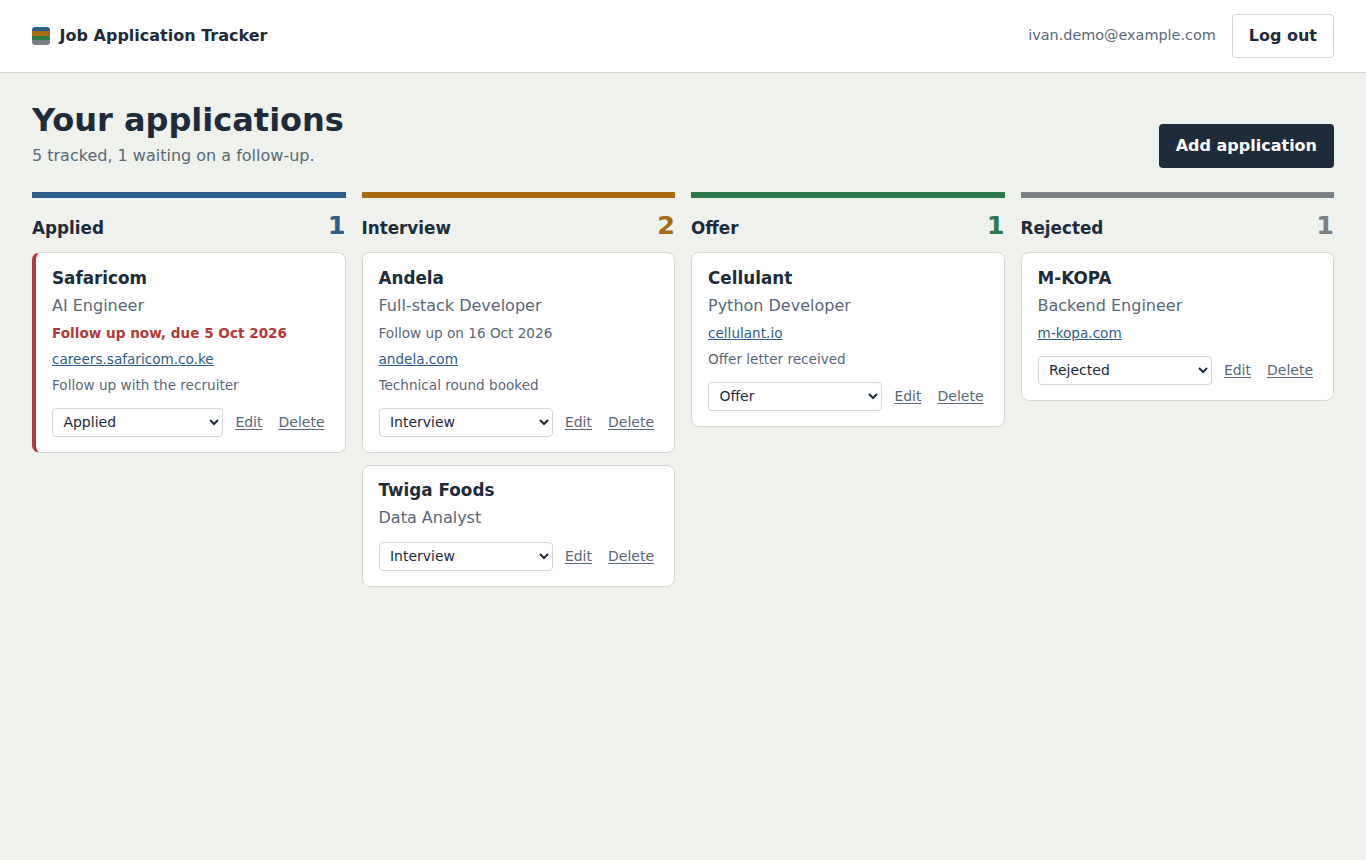
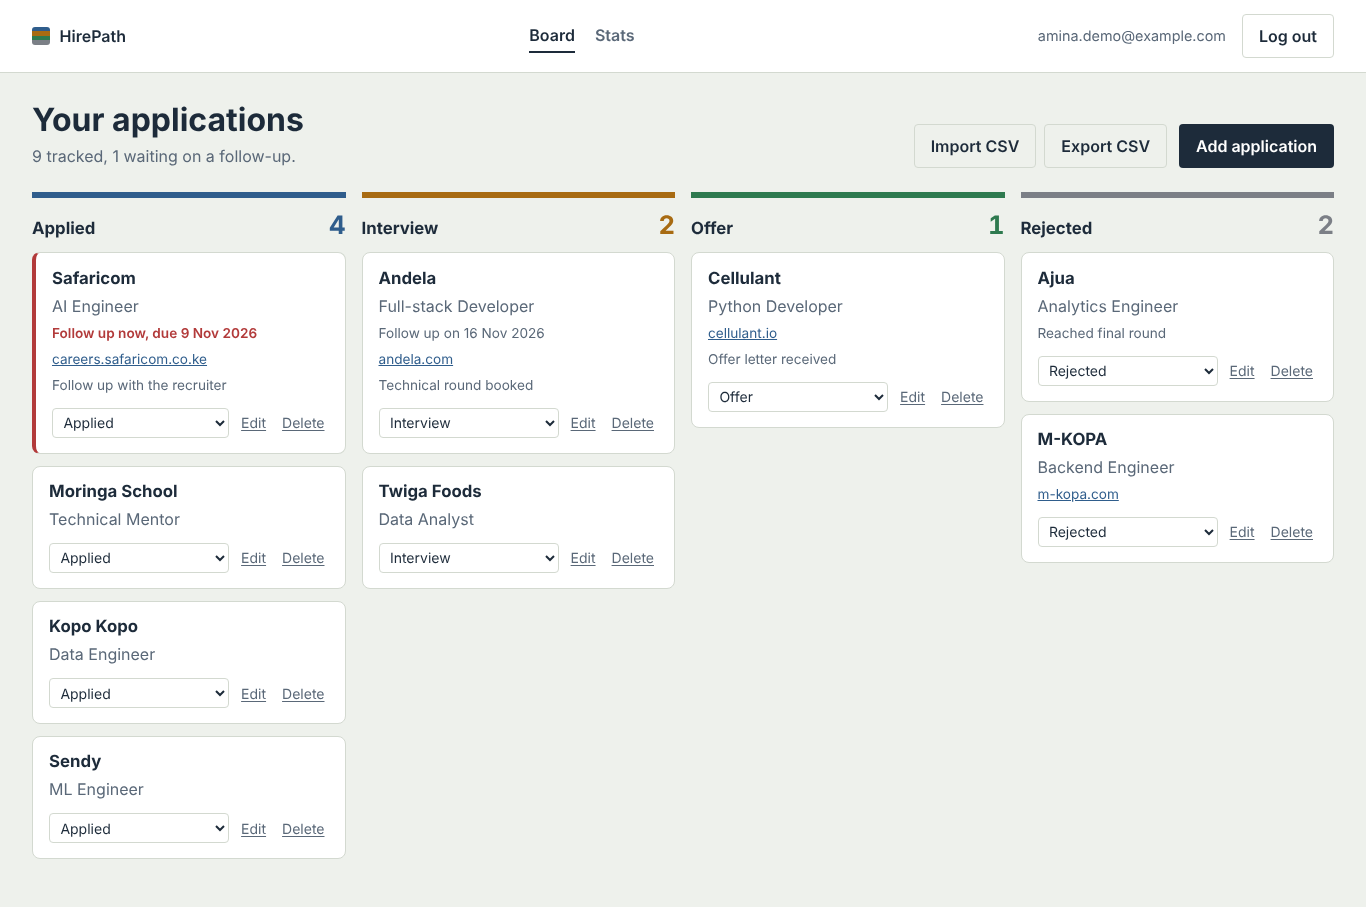
Update README and screenshots for HirePath

diff --git a/README.md b/README.md
@@ -1,9 +1,8 @@
-# Job Application Tracker
+# HirePath
 
-Keep every job application in one place. Add the company, role, link, status and a follow-up date, then see everything on a board grouped by status. Each user only ever sees their own applications.
+![CI](https://github.com/quantamsage/hirepath/actions/workflows/ci.yml/badge.svg)
 
-
-> The API runs on Render's free tier, so the first request after a quiet period can take up to a minute.
+Keep every job application in one place. Add the company, role, link, status and a follow-up date, see everything on a board grouped by status, and track how your search is going on a stats page. Bring in an existing spreadsheet with CSV import, or take everything out with CSV export. Each user only ever sees their own applications.
 
 ![Board](docs/screenshots/board.png)
 
@@ -13,13 +12,19 @@ Keep every job application in one place. Add the company, role, link, status and
 - Add, edit and delete applications: company, role, job link, status, follow-up date, notes
 - Board with four columns: Applied, Interview, Offer, Rejected
 - Change status straight from a card
+- **Stats page:** response rate, interview rate and offer rate, a funnel (Applied → Heard back → Interviewed → Offers), applications per week for the last 12 weeks, and where everything stands now. Rates use each application's **status history**, so one that reached an interview and was later rejected still counts as interviewed.
+- **CSV import:** upload your existing spreadsheet. Headers are matched loosely ("Job Title", "Date Applied", "Link" all work); only company and role are required. Import is **all or nothing**: if any row is invalid, nothing is saved and every problem is listed by spreadsheet row number.
+- **CSV export:** download everything as a CSV. Cells that start with `=`, `+`, `-` or `@` are prefixed with `'` so Excel and Google Sheets don't run them as formulas.
+- Record the date you applied (defaults to today), so imported history lands in the right week
 - Follow-ups that are due (today or overdue, and still Applied or Interview) are highlighted. The backend decides this, not the browser.
 - Friendly error messages everywhere, including field-level validation errors from the API
 - Works on mobile
 
 ## Screenshots
 
-| Edit dialog | Session expired | Mobile |
+![Stats](docs/screenshots/stats.png)
+
+| Edit dialog | Log in | Mobile |
 |---|---|---|
 | ![Edit dialog](docs/screenshots/edit-dialog.png) | ![Login](docs/screenshots/login.png) | ![Mobile](docs/screenshots/mobile.png) |
 
@@ -27,17 +32,16 @@ Keep every job application in one place. Add the company, role, link, status and
 
 - **Backend:** Python 3.12, FastAPI, Pydantic v2, psycopg 3 (connection pool), PyJWT, Argon2 (argon2-cffi)
 - **Frontend:** Next.js 15 (App Router), TypeScript, plain CSS
-- **Database:** PostgreSQL on Supabase (Session pooler)
-- **Hosting:** Render (backend, Frankfurt), Vercel (frontend)
+- **Database:** PostgreSQL 16 (works with any PostgreSQL 13+, including Supabase)
 - **Testing:** pytest against a real Postgres database; GitHub Actions CI
 
 ## Architecture
 
 ```mermaid
 flowchart LR
-    U[Browser] -->|HTTPS| FE[Next.js frontend<br/>Vercel]
-    FE -->|HTTPS + JSON<br/>Authorization: Bearer JWT| BE[FastAPI backend<br/>Render, Frankfurt]
-    BE -->|SQL, parameterised<br/>as jobtracker_app role| DB[(PostgreSQL<br/>Supabase Session pooler)]
+    U[Browser] -->|HTTPS| FE[Next.js frontend]
+    FE -->|HTTPS + JSON<br/>Authorization: Bearer JWT| BE[FastAPI backend]
+    BE -->|SQL, parameterised<br/>as jobtracker_app role| DB[(PostgreSQL<br/>jobtracker_* tables)]
     C[docs/openapi.yaml<br/>API contract] -. contract test .-> BE
 ```
 
@@ -53,7 +57,7 @@ The frontend never touches the database. It only calls the backend, and the back
 | Schema design | `db/schema.sql`: foreign key with `ON DELETE CASCADE`, `NOT NULL`, `UNIQUE` email, `CHECK` constraints on status, URL, lengths and lowercase email. Each index has a comment explaining it. |
 | Validation at the boundary | `backend/app/schemas.py`: every body, path and query parameter is a Pydantic model or typed parameter (`extra="forbid"`, length limits, URL scheme check). All SQL is in `backend/app/repository.py` and uses `%s` parameters. |
 | Stateless auth | `backend/app/security.py`: Argon2id password hashes, HS256 JWT with a 30-minute expiry, algorithm pinned on decode. See the token storage trade-off below. |
-| Least privilege | The app connects as `jobtracker_app`: `SELECT, INSERT` on users, CRUD on applications, nothing else. It can't create, alter, drop or truncate (tested in `test_db_privileges.py`). Every application query includes `user_id = <id from token>`. Secrets live only in Render's env vars. |
+| Least privilege | The app connects as `jobtracker_app`: `SELECT, INSERT` on users, CRUD on applications, `SELECT, INSERT` on the status history (it can't rewrite history), nothing else. It can't create, alter, drop or truncate (tested in `test_db_privileges.py`). Every application query includes `user_id = <id from token>`. Secrets live only in environment variables. |
 | Graceful errors | `backend/app/errors.py`: one format, `{"error": {"code", "message", "details?"}}`. Unexpected errors are logged with a stack trace on the server and returned as a generic 500. |
 | CORS and headers | `CORS_ORIGINS` env var, `*` rejected at startup. Backend sets `nosniff`, `X-Frame-Options: DENY`, a `frame-ancestors 'none'` CSP, `Referrer-Policy`, `Cache-Control: no-store`, and HSTS in production. The frontend sets a CSP in `next.config.ts`. |
 
@@ -61,14 +65,14 @@ The frontend never touches the database. It only calls the backend, and the back
 
 The access token is kept in `sessionStorage` and sent in the `Authorization` header.
 
-- **Why:** the frontend (Vercel) and backend (Render) are on different domains. Cookies across sites need `SameSite=None` and CSRF protection. A header-based token avoids CSRF completely, since browsers never attach it automatically.
+- **Why:** the frontend and backend run on different origins (ports locally, domains if deployed). Cookies across sites need `SameSite=None` and CSRF protection. A header-based token avoids CSRF completely, since browsers never attach it automatically.
 - **The cost:** any JavaScript running on the page can read `sessionStorage`, so an XSS bug could steal the token. This is reduced by the CSP, React's escaping, the backend rejecting non-http(s) links, and the 30-minute expiry. `sessionStorage` (not `localStorage`) also clears when the tab closes.
 - **The alternative:** an `HttpOnly` cookie can't be read by JavaScript at all. It's the stronger choice if both apps share a domain (e.g. `app.example.com` and `api.example.com`), at the cost of adding CSRF protection.
 
 ## Project structure
 
 ```
-job-application-tracker/
+hirepath/
 ├── backend/
 │   ├── app/
 │   │   ├── main.py               # app factory, middleware (headers, errors), CORS
@@ -77,33 +81,35 @@ job-application-tracker/
 │   │   ├── security.py           # Argon2 hashing, JWT create/verify, auth dependency
 │   │   ├── errors.py             # consistent JSON error format
 │   │   ├── schemas.py            # Pydantic request/response models
-│   │   ├── applications_logic.py # business rules (follow-up due)
+│   │   ├── applications_logic.py # business rules (follow-up due, rates)
+│   │   ├── csv_io.py             # CSV import parsing/validation and export
 │   │   ├── repository.py         # all SQL, parameterised, scoped by user_id
 │   │   └── routers/              # auth.py, applications.py
 │   ├── tests/                    # unit, API, DB-privilege and contract tests
 │   ├── requirements.txt, requirements-dev.txt, pytest.ini, .env.example
 ├── frontend/
-│   ├── src/app/                  # pages: login, register, board
-│   ├── src/components/           # AuthForm, ApplicationCard, ApplicationDialog
+│   ├── src/app/                  # pages: login, register, board, stats
+│   ├── src/components/           # AuthForm, ApplicationCard, ApplicationDialog, CsvTools, TopBar
 │   ├── src/lib/                  # api.ts (only backend client), types.ts, format.ts
 │   ├── next.config.ts            # Content-Security-Policy and headers
 │   └── .env.example
 ├── db/schema.sql                 # tables, constraints, indexes, RLS, app role
 ├── docs/openapi.yaml             # API contract
 ├── docs/screenshots/
-├── render.yaml                   # Render blueprint (backend)
 └── .github/workflows/ci.yml      # tests + frontend build on every push
 ```
 
 ## Setup (Windows, PowerShell)
 
-### 1. Database (Supabase)
+### 1. Database (local PostgreSQL)
 
-1. In your Supabase project, open the SQL editor and run `db/schema.sql`.
-2. In a **new, unsaved** query, set the app role's password:
-   `ALTER ROLE jobtracker_app WITH PASSWORD '<long random password>';`
-3. Click **Connect** and copy the **Session pooler** string. Change the username to `jobtracker_app.<project-ref>` and use the password from step 2.
-4. Make sure the Data API is off (Project Settings > Data API). RLS is enabled by the schema.
+```powershell
+psql -U postgres -c "CREATE DATABASE jobtracker_dev"
+psql -U postgres -d jobtracker_dev -f db\schema.sql
+psql -U postgres -c "ALTER ROLE jobtracker_app WITH PASSWORD '<choose-a-password>'"
+```
+
+Then set `DATABASE_URL=postgresql://jobtracker_app:<that-password>@localhost:5432/jobtracker_dev` in `backend/.env`.
 
 ### 2. Backend
 
@@ -137,13 +143,7 @@ cd backend
 pytest -q
 ```
 
-Without a test database, the unit, contract and security tests run (26) and the database tests are skipped. To run all 55, set `TEST_ADMIN_DATABASE_URL` to a **throwaway** local Postgres database whose name contains `test` (the tests drop and recreate the tables). GitHub Actions runs the full suite on every push.
-
-## Deployment
-
-- **Backend (Render):** New > Blueprint, pick this repo (uses `render.yaml`, Frankfurt). Set `DATABASE_URL`, `JWT_SECRET` and `CORS_ORIGINS` (your Vercel URL, no trailing slash) in the dashboard.
-- **Frontend (Vercel):** import the repo, set Root Directory to `frontend`, add `NEXT_PUBLIC_API_URL` = your Render URL, deploy.
-- After Vercel gives you a URL, update `CORS_ORIGINS` on Render to that exact URL.
+Without a test database, the unit, contract and security tests run (35) and the database tests are skipped. To run all 75, set `TEST_ADMIN_DATABASE_URL` to a **throwaway** local Postgres database whose name contains `test` (the tests drop and recreate the tables). GitHub Actions runs the full suite on every push.
 
 ## How it works
 
@@ -152,6 +152,9 @@ Without a test database, the unit, contract and security tests run (26) and the 
 3. **Every protected request:** the `get_current_user_id` dependency verifies the token and gives the route the user id. Routes never take a user id from the request body or URL.
 4. **Ownership:** every application query has `WHERE ... AND user_id = %s`. Asking for someone else's application returns 404, so you can't even tell that it exists.
 5. **Board:** the frontend fetches the list and groups it into columns for display. After any change it reloads from the API.
+6. **Status history:** creating an application, or changing its status, also writes a row to `jobtracker_status_events` in the same transaction. Saving without changing the status writes nothing.
+7. **Stats:** one query counts current statuses and, using the history, how many applications ever reached each stage. A second query uses `generate_series` to return all 12 weeks, including weeks with no applications.
+8. **Import:** `csv_io.py` validates every row with the same Pydantic model as the add form, collects all problems, and only if there are none inserts everything in one transaction.
 
 ## Limitations
 
@@ -159,7 +162,7 @@ Without a test database, the unit, contract and security tests run (26) and the 
 - No rate limiting on login or registration, so brute-force protection relies on Argon2's cost.
 - No refresh tokens: after 30 minutes you log in again.
 - The frontend CSP allows `'unsafe-inline'` scripts because Next.js needs it without a nonce setup.
-- Render's free tier sleeps when idle, so the first request can take up to a minute.
+- Stats weeks use the server's calendar (Monday-start weeks in the database's time zone).
 - Ownership is enforced in the backend. RLS blocks the Data API roles, but it doesn't yet enforce per-user rows for the app role.
 
 ## Future improvements
@@ -170,6 +173,7 @@ Without a test database, the unit, contract and security tests run (26) and the 
 - Email reminders for follow-ups
 - Nonce-based CSP
 - Search and filtering by company or date
+- Time-to-response stats (days from applying to first reply)
 
 ## License
 
